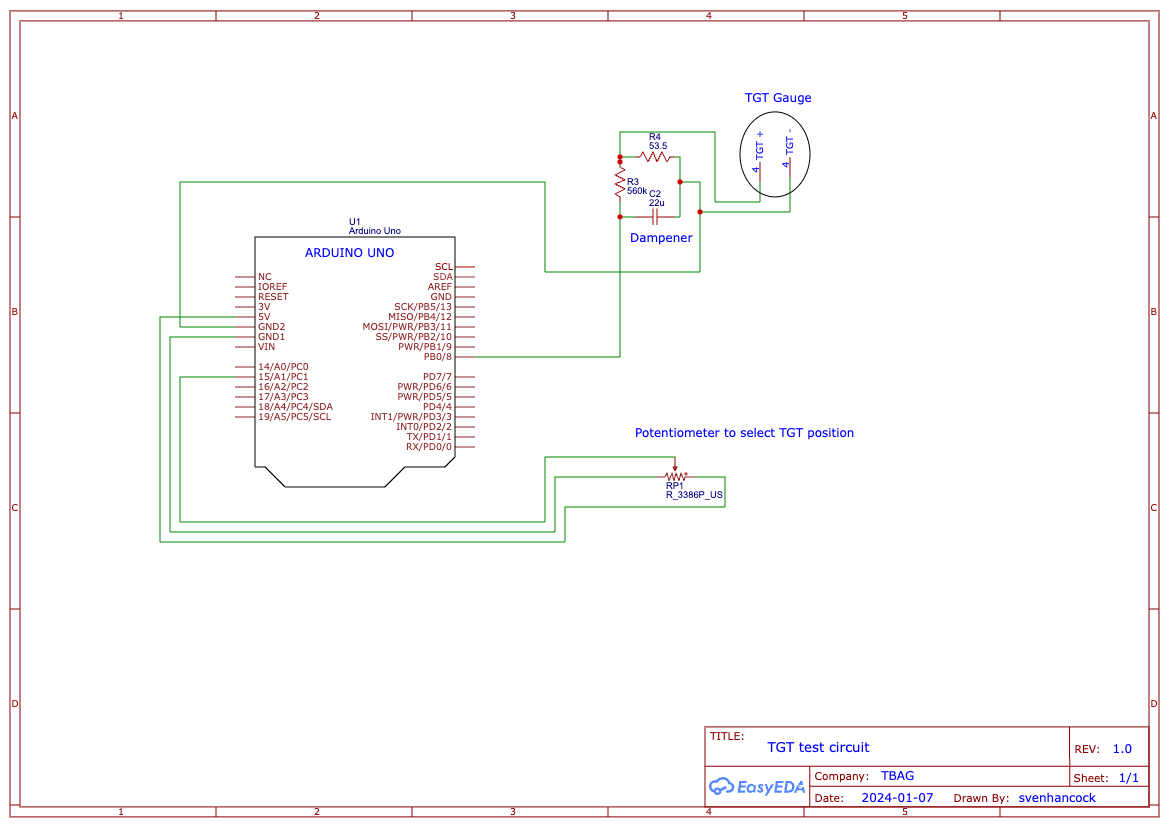
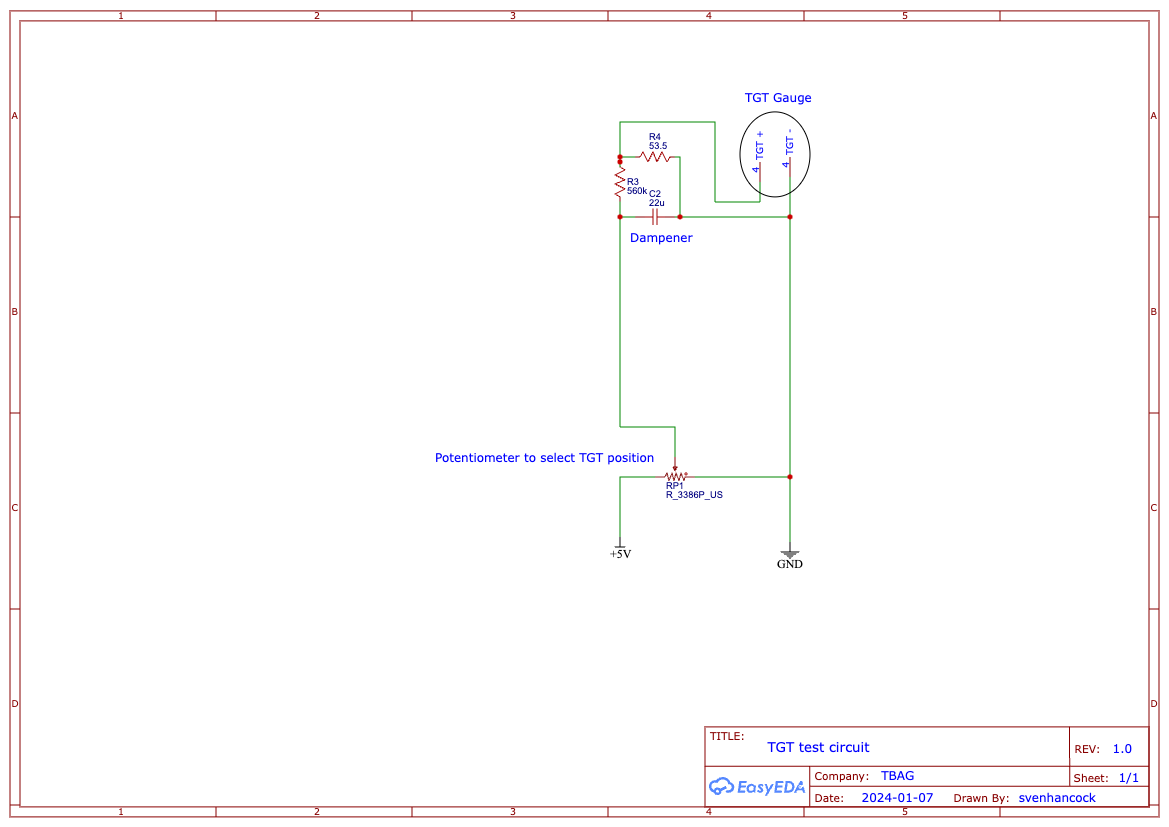
TGT circuit complete.

diff --git a/instrument_test/README.md b/instrument_test/README.md
@@ -5,9 +5,11 @@ This contains code and circuit diagrams to test buccaneer instruments.
 
 ## bucc\_procedures
 
-Code to test a buccaneer TGT gauge (jet pipe temperature). The circuit required is shown belo.
+Circuit to test a buccaneer TGT gauge (jet pipe temperature).
 
 ![TGT gauge circuit](images/TGT_test_circuit.png)
+
+Note that no code is needed for this circuit, as it only requires a voltage applying.
 
 
 
